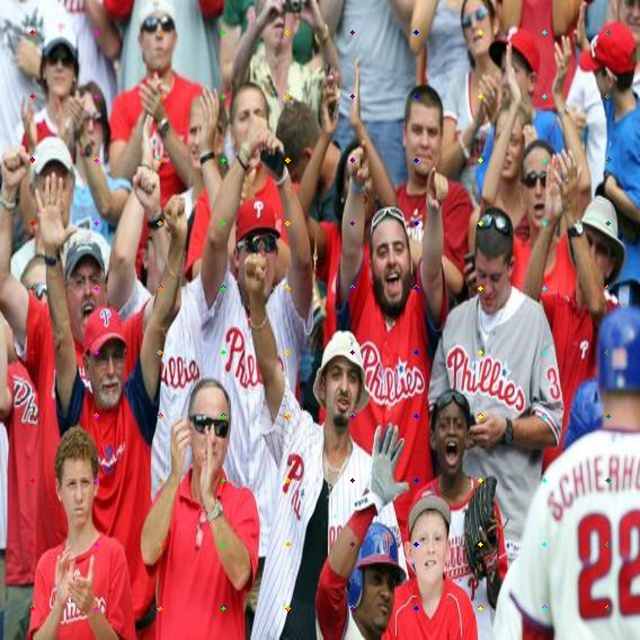
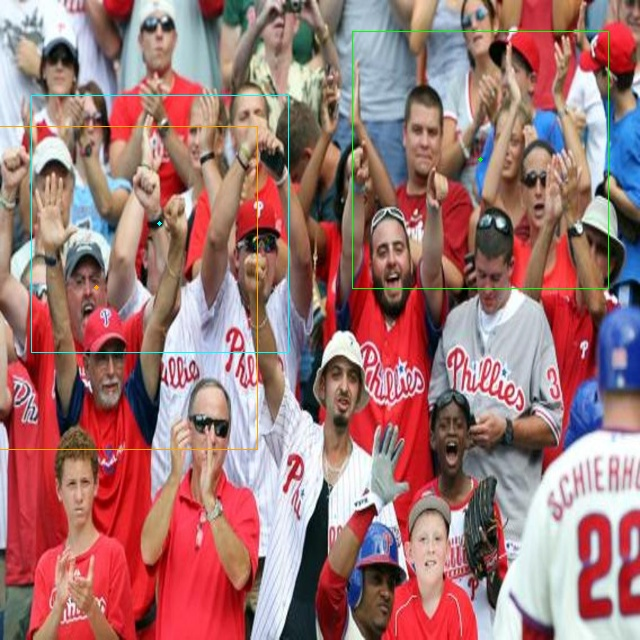
CLEAN STATE: Making ready to remove 5 facial landmarks components (modules, functions, loss, ...)

diff --git a/utils/box_utils.py b/utils/box_utils.py
@@ -164,6 +164,8 @@ def match(threshold_background, threshold_foreground, truths, priors, variances,
     conf[best_truth_overlap < threshold_background] = 0    # label as background
 
     #ignore_mask = (best_truth_overlap >= threshold_background) & (best_truth_overlap <= threshold_foreground)
+    #true_count = ignore_mask.sum()
+    #print(true_count)
     #conf[ignore_mask] = -2
 
     conf_t[idx] = conf  # [num_priors] top class label for each prior

diff --git a/draw_anchors.py b/draw_anchors.py
@@ -10,7 +10,7 @@ from data import cfg_re50
 chosen_feature_map_index = 4
 
 # Set the drawing mode: choose from 'border', 'center', or 'both'
-draw_mode = 'center'
+draw_mode = 'both'
 
 # --- Utility: Decode anchors from center-size to (xmin, ymin, xmax, ymax) ---
 def point_form(boxes):
